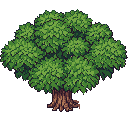
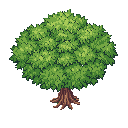
Update tree entity image and adjust tile identification in World class

diff --git a/World.py b/World.py
@@ -122,7 +122,7 @@ class SubWorld:
 
         level = len(self.playerTiles[str(x)+";"+str(y)])
 
-        tile = Tile((x,y-level*TILE_SIZE4),tile.zindex,specific_id = "061")
+        tile = Tile((x,y-level*TILE_SIZE4),tile.zindex,specific_id = "wooden")
 
         self.playerTiles[str(x)+";"+str(y)].append(tile)
 
@@ -167,7 +167,7 @@ class SubWorld:
                 
                 if not(x==0 and y==0) :
                     if tile.id == "040" :
-                        luck = random.randint(0,2)
+                        luck = random.randint(0,4)
                         if luck == 0 :
                             self.add_rock(tile.rect,y+1)
                     if tile.id == "025" :
@@ -175,6 +175,8 @@ class SubWorld:
                         if luck == 0 :
                             self.add_tree(tile.rect,y+1)
                     if tile.id == "027" :
+                        luck = random.randint(0,4)
+                        if luck == 0 :
                             self.add_flower(tile.rect,y+1)
                     elif tile.id == "029" or tile.id == "030" or tile.id == "031" or tile.id == "032" or tile.id == "033" or tile.id == "034" or tile.id == "035"  or tile.id == "036"  :
                         self.add_plant(tile.rect,y+1,tile.id)

diff --git a/Object.py b/Object.py
@@ -49,6 +49,9 @@ class Tree(Entity):
     def __init__(self,rect,zindex):
         super().__init__(zindex) 
 
-        self.surf = pygame.image.load("assets/tiles/tile_tree.png").convert_alpha()
+        self.surf = pygame.image.load("assets/tiles/tile_treefd.png").convert_alpha()
+        
+        #self.surf = pygame.transform.scale(self.surf,(self.surf.get_width()*1.2,self.surf.get_height()*1.2))
+
         self.mask = pygame.mask.from_surface(pygame.image.load("assets/tiles/tile_tree_mask.png").convert_alpha())
         self.rect = self.surf.get_rect(midbottom = rect.midbottom)

diff --git a/Player.py b/Player.py
@@ -76,6 +76,8 @@ class Player(Animal):
             self.actualsubworld = (self.actualsubworld[0],self.actualsubworld[1]-TILES_HEIGHT)
             newsubworldkey = self.actualsubworld
 
+        if newsubworldkey != None:
+            print(newsubworldkey)
         return newsubworldkey
     
     def getTileUnderPlayer(self):
